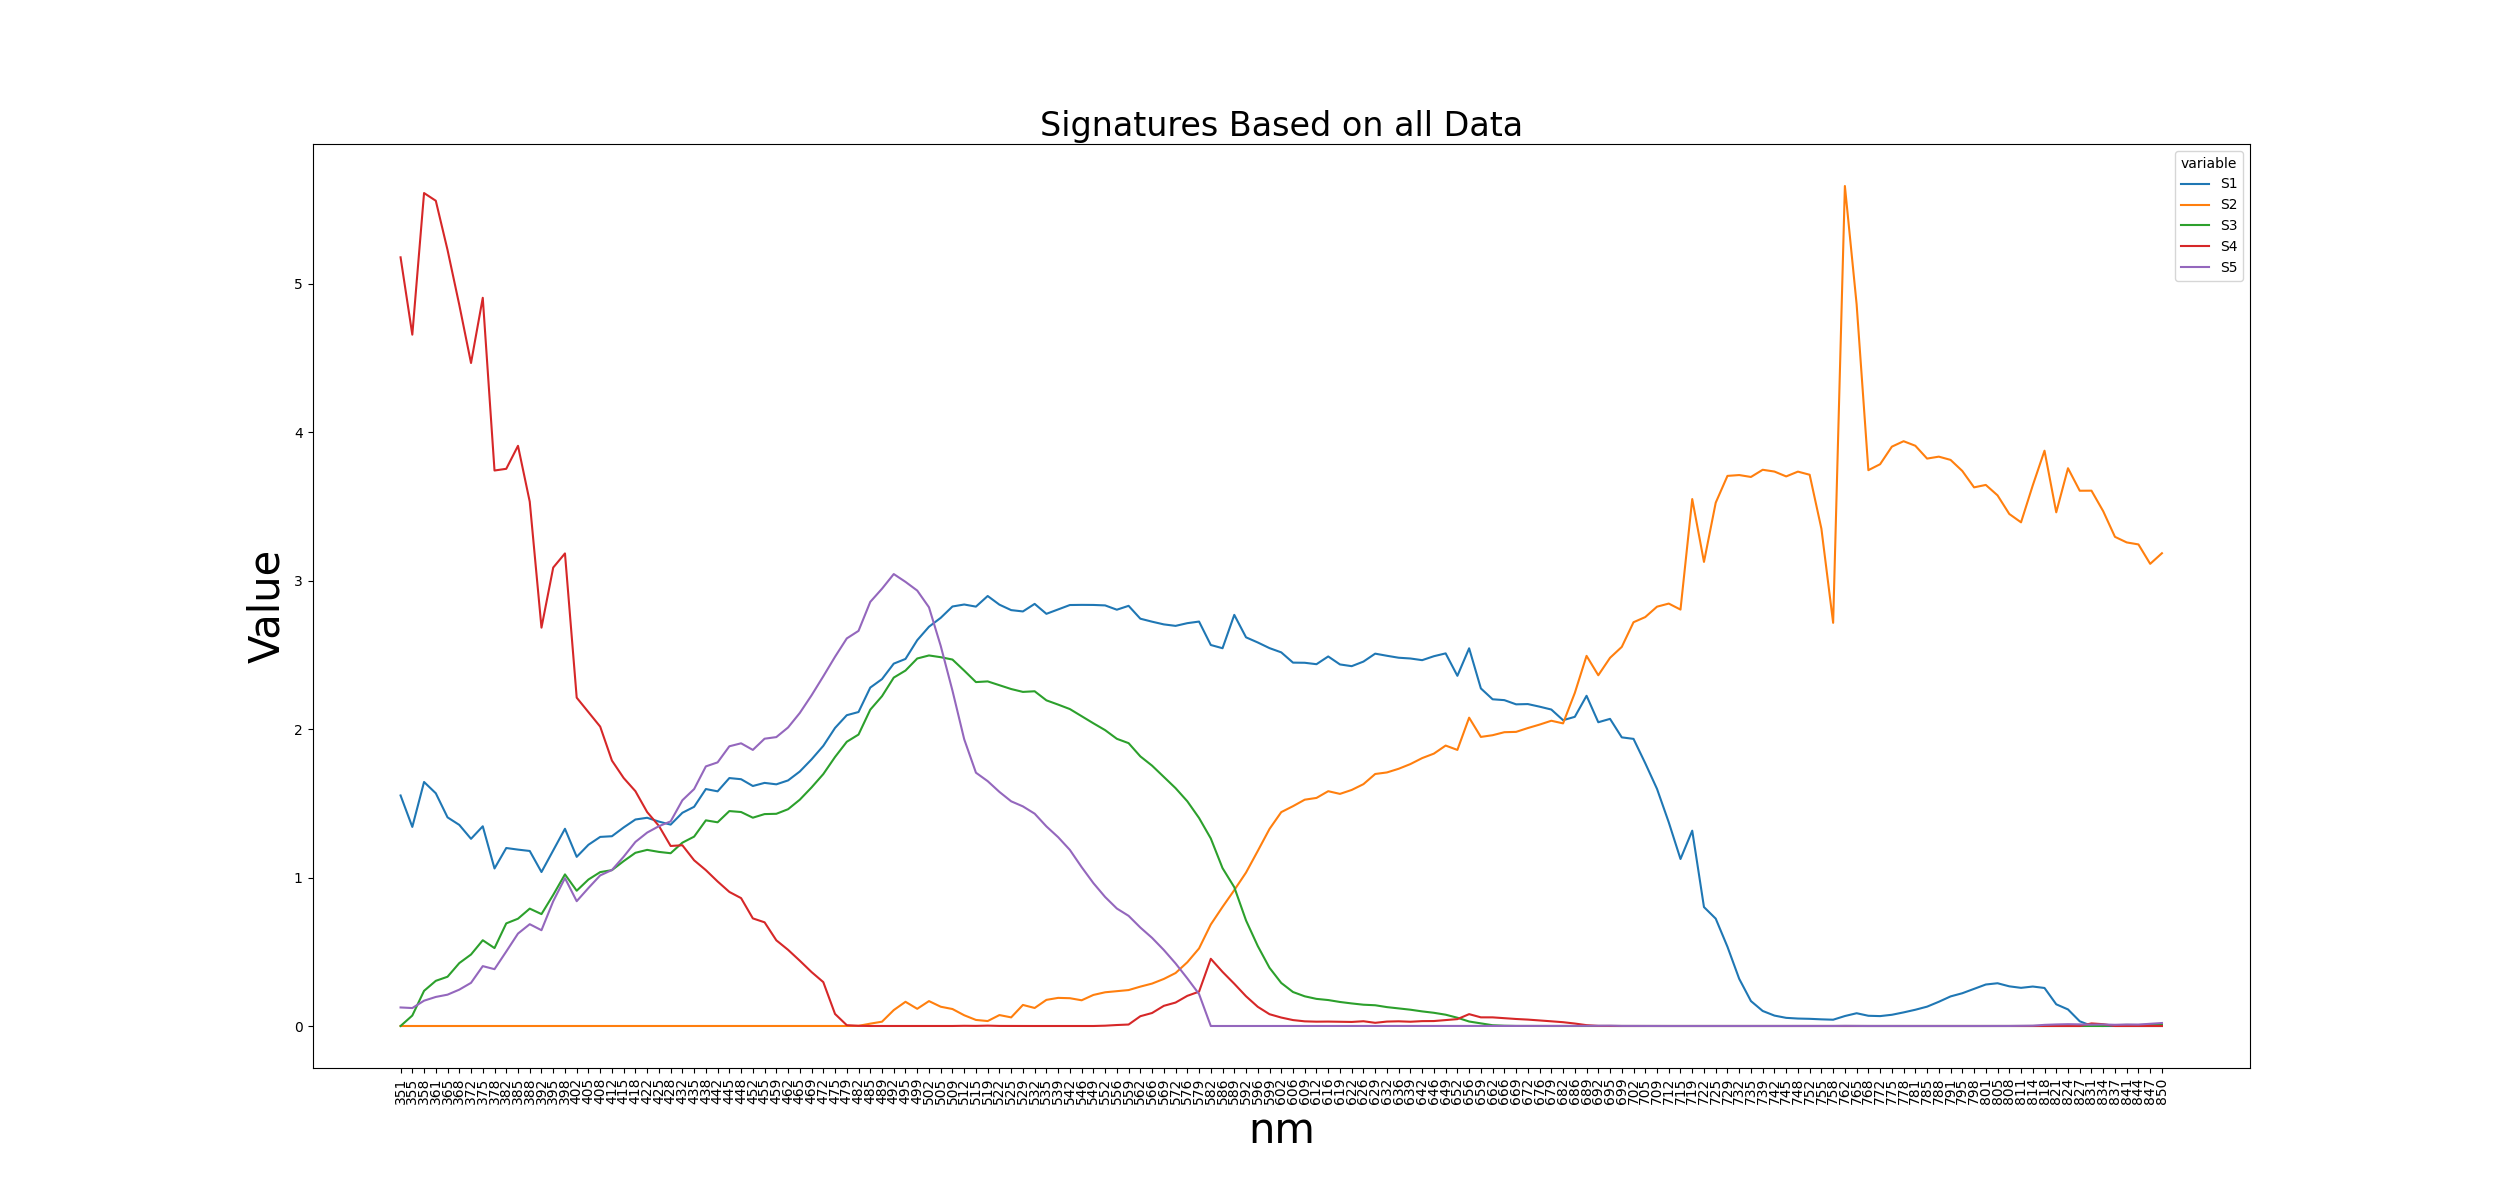
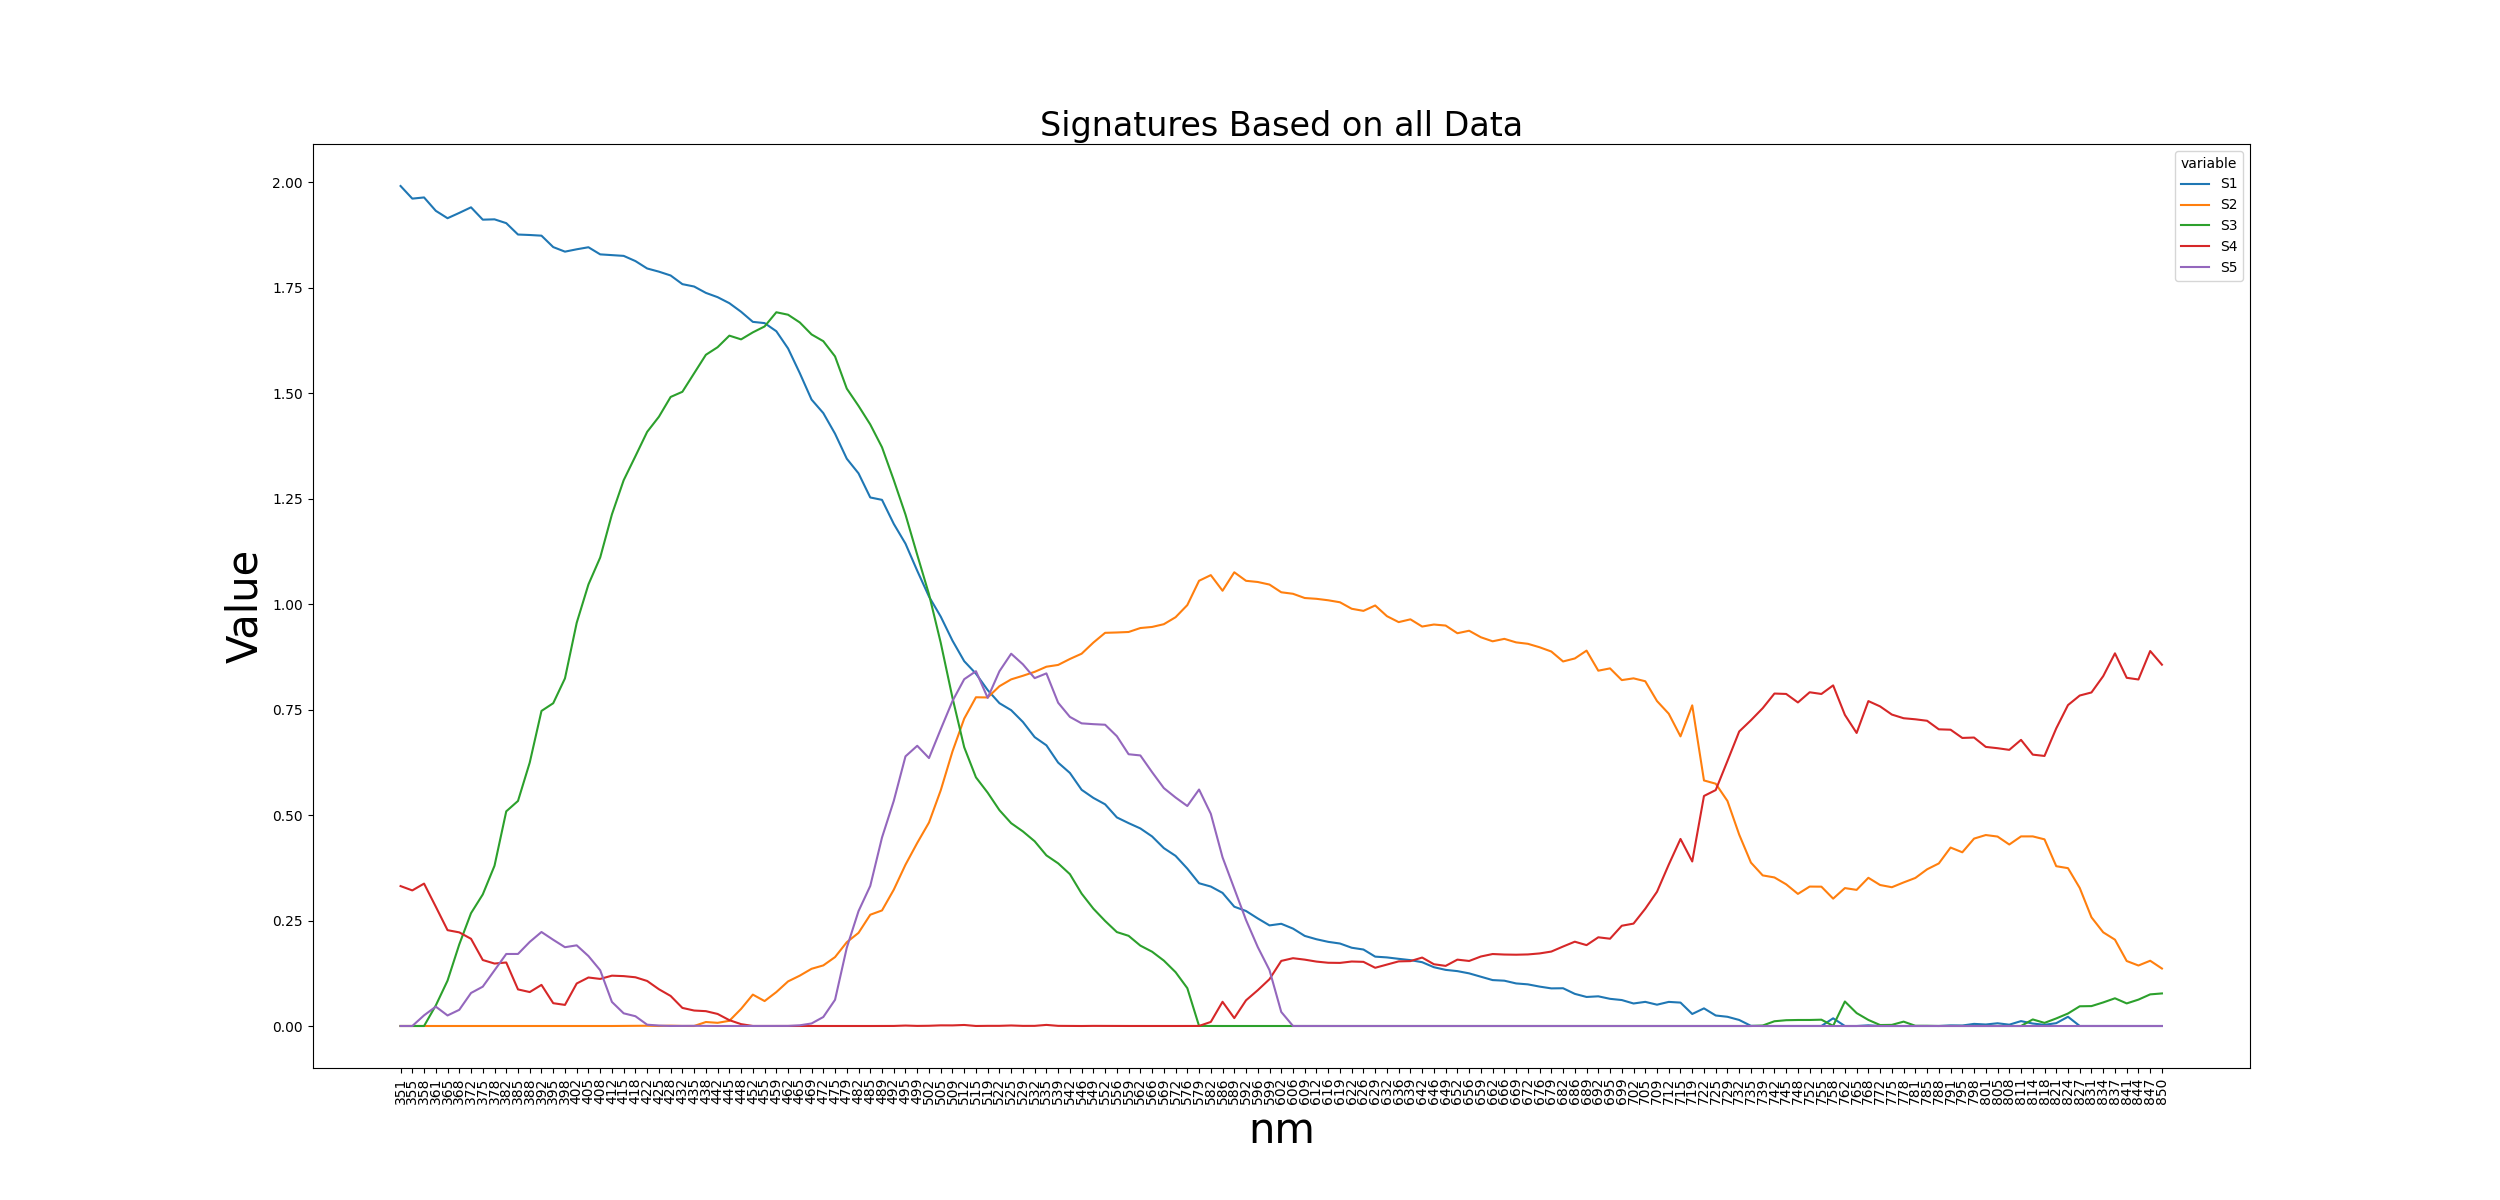
contrastive is really hard to explain. Let's try with AE and feature activation maps

diff --git a/1_merge_and_normalize_uw_dw.py b/1_merge_and_normalize_uw_dw.py
@@ -33,6 +33,7 @@ def simplify_column_names(df):
 '''
     Reading and merging DW and UW data for each experiment
 '''
+all_data_normalized_uw_by_dw = []
 all_data_for_modeling = []
 for folder in tqdm.tqdm(glob.glob("{}/*".format(INPUT_FOLDER))): # for every measurment folder
     if os.path.isfile("{}/spectra_merged.csv".format(folder)):
@@ -58,17 +59,21 @@ for folder in tqdm.tqdm(glob.glob("{}/*".format(INPUT_FOLDER))): # for every mea
         common_columns = dw.columns.intersection(apogee.columns)
         dw = dw[common_columns]
         uw = uw[common_columns]
+        # normalize UW by DW
+        merged_dw_uw = pd.merge_asof(dw, uw, on='TIMETAG2',
+                                  tolerance=pd.Timedelta('3s'), suffixes=("_DW", "_UW"),
+                                  direction='nearest', allow_exact_matches=True).dropna()
         # DW
-        merged = pd.merge_asof(dw, apogee.sort_values('TIMETAG2'), on='TIMETAG2',
+        merged_dw = pd.merge_asof(dw, apogee.sort_values('TIMETAG2'), on='TIMETAG2',
                                tolerance=pd.Timedelta('3s'), suffixes=("_DW", "_apogee"),
                                direction='nearest', allow_exact_matches=True).dropna()
 
-        dw_columns = [col for col in merged.columns if col.endswith('_DW')]
-        apogee_columns = [col for col in merged.columns if col.endswith('_apogee')]
+        dw_columns = [col for col in merged_dw.columns if col.endswith('_DW')]
+        apogee_columns = [col for col in merged_dw.columns if col.endswith('_apogee')]
 
-        normalized_data_dw = pd.DataFrame(np.array(merged[dw_columns].values, dtype='float32')/
-                                       np.array(merged[apogee_columns].values, dtype="float32"))
-        normalized_data_dw['TIMETAG2'] = merged['TIMETAG2'].values
+        normalized_data_dw = pd.DataFrame(np.array(merged_dw[dw_columns].values, dtype='float32')/
+                                       np.array(merged_dw[apogee_columns].values, dtype="float32"))
+        normalized_data_dw['TIMETAG2'] = merged_dw['TIMETAG2'].values
         normalized_data_dw.columns = common_columns
         normalized_data_dw = normalized_data_dw.dropna()
         # UW
@@ -84,6 +89,14 @@ for folder in tqdm.tqdm(glob.glob("{}/*".format(INPUT_FOLDER))): # for every mea
         normalized_data_uw['TIMETAG2'] = merged['TIMETAG2']
         normalized_data_uw.columns = common_columns
         normalized_data_uw = normalized_data_uw.dropna()
+
+        normalized_data_uw_by_dw = pd.DataFrame(np.array(merged_dw_uw[uw_columns].values, dtype='float32')/
+                                                (np.array(merged_dw_uw[dw_columns].values, dtype="float32"))+1e-6)
+        normalized_data_uw_by_dw['TIMETAG2'] = merged_dw_uw['TIMETAG2']
+        normalized_data_uw_by_dw.columns = common_columns
+        normalized_data_uw_by_dw = normalized_data_uw_by_dw.replace([np.inf, -np.inf], np.nan)
+        normalized_data_uw_by_dw = normalized_data_uw_by_dw.dropna()
+
         for depthfile in glob.glob("{}/*.asc".format(folder)):
             depth = pd.read_csv(depthfile, skiprows=11)
             depth.columns = ['Temp', 'Meter', 'Date', 'TIMETAG2']
@@ -92,18 +105,28 @@ for folder in tqdm.tqdm(glob.glob("{}/*".format(INPUT_FOLDER))): # for every mea
         normalized_data_uw = pd.merge_asof(normalized_data_uw, depth.sort_values('TIMETAG2'), on='TIMETAG2',
                                tolerance=pd.Timedelta('3s'),
                                direction='nearest', allow_exact_matches=True)
+        normalized_data_uw_by_dw = pd.merge_asof(normalized_data_uw_by_dw, depth.sort_values('TIMETAG2'), on='TIMETAG2',
+                                           tolerance=pd.Timedelta('3s'),
+                                           direction='nearest', allow_exact_matches=True)
         normalized_data_dw = pd.merge_asof(normalized_data_dw, depth.sort_values('TIMETAG2'), on='TIMETAG2',
                                            tolerance=pd.Timedelta('3s'),
                                            direction='nearest', allow_exact_matches=True)
+
+
         if np.shape(normalized_data_uw)[0] > 5 and np.shape(normalized_data_dw)[0] > 5:
             normalized_data_dw = normalized_data_dw.iloc[:normalized_data_dw['Meter'].idxmax() + 1]
             normalized_data_uw = normalized_data_uw.iloc[:normalized_data_uw['Meter'].idxmax() + 1]
+            normalized_data_uw_by_dw = normalized_data_uw_by_dw.iloc[:normalized_data_uw_by_dw['Meter'].idxmax() + 1]
             normalized_data_dw['location'] = location
             normalized_data_dw['date'] = date
             normalized_data_dw['sensor'] = 'DW'
             normalized_data_uw['location'] = location
             normalized_data_uw['date'] = date
             normalized_data_uw['sensor'] = 'UW'
+            normalized_data_uw_by_dw['location'] = location
+            normalized_data_uw_by_dw['date'] = date
+            normalized_data_uw_by_dw['sensor'] = 'UW'
+            all_data_normalized_uw_by_dw.append(pd.concat([normalized_data_uw_by_dw, normalized_data_dw]))
 
             total_data = pd.concat([normalized_data_uw, normalized_data_dw])
             total_data.to_csv("{}/everything_merged_and_normalized.csv".format(folder))
@@ -116,3 +139,9 @@ all_data_for_modeling_df['Date'] = pd.to_datetime(all_data_for_modeling_df['Date
 all_data_for_modeling_df['Month'] = all_data_for_modeling_df['Date'].dt.month
 all_data_for_modeling_df = all_data_for_modeling_df[all_data_for_modeling_df['Meter'] > 1]
 all_data_for_modeling_df.to_csv("ALL_DATA.csv")
+
+all_data_normalized_uw_by_dw = pd.concat(all_data_normalized_uw_by_dw)
+all_data_normalized_uw_by_dw['Date'] = pd.to_datetime(all_data_normalized_uw_by_dw['Date'])
+all_data_normalized_uw_by_dw['Month'] = all_data_normalized_uw_by_dw['Date'].dt.month
+all_data_normalized_uw_by_dw = all_data_normalized_uw_by_dw[all_data_normalized_uw_by_dw['Meter'] > 1]
+all_data_normalized_uw_by_dw.to_csv("ALL_DATA_UW_norm_by_DW.csv")

diff --git a/contrastive_not_used/5_extract_contrastive_sigs.py b/contrastive_not_used/5_extract_contrastive_sigs.py
@@ -1,0 +1,80 @@
+
+import pickle
+import pandas as pd
+import numpy as np
+import torch
+import umap
+from captum.attr import IntegratedGradients
+from matplotlib import pyplot as plt
+import seaborn as sb
+import wandb
+from sklearn.metrics.pairwise import cosine_similarity
+from tqdm import tqdm
+
+from losses import SupConLoss
+from sklearn.model_selection import train_test_split
+from torch import optim
+from LSTMModel import LSTMModel
+
+
+if torch.cuda.is_available():
+    print("CUDA is available! PyTorch is using GPU acceleration.")
+    device = "cuda:1"
+else:
+    print("CUDA is not available. PyTorch is using CPU.")
+    device = "cpu"
+
+
+with open("derived_data/X.pck", 'rb') as f:
+    X = pickle.load(f)
+with open("derived_data/Y.pck", 'rb') as f:
+    Y = pickle.load(f)
+data = pd.read_csv("ALL_DATA.csv")
+curve_columns = data.columns[1:152]
+
+input_size = 151  # Number of features (channels)
+hidden_size = 32  # Number of LSTM units
+num_layers = 2  # Number of LSTM layers
+batch_size = 1
+learning_rate = 0.0001
+num_epochs = 500
+temp = 0.5
+base_temperature = 0.5
+output_size = 7
+# Create the LSTM autoencoder model
+model = LSTMModel(input_size, hidden_size, num_layers, output_size, device=device, contrastive=True).to(device)
+# Load the trained model
+model.load_state_dict(torch.load('lstm_contrsative_model_7.pth'))
+model.eval()
+
+res_df = []
+month_df = []
+for label in tqdm(np.unique(Y), total=5):
+    print(label)
+    X_train_tensor = torch.tensor(X, dtype=torch.float32).to(device)
+    y_train_tensor = torch.tensor(Y, dtype=torch.long).to(device)
+    train_data = torch.utils.data.TensorDataset(X_train_tensor, y_train_tensor)
+    train_loader = torch.utils.data.DataLoader(train_data, batch_size=batch_size, shuffle=True)
+
+    total_attributions = []
+    indices = np.where(Y == label)[0]
+    Y_filtered = Y[indices]
+    X_filtered = X[indices, :, :]
+
+    X_filtered = torch.tensor(X_filtered, dtype=torch.float32).to(device)
+    Y_filtered = torch.tensor(Y_filtered, dtype=torch.long).to(device)
+    train_loader = torch.utils.data.DataLoader(torch.utils.data.TensorDataset(X_filtered, Y_filtered),
+                                               batch_size=batch_size,
+                                               shuffle=True)
+
+
+    for i, (inputs, labels) in tqdm(enumerate(train_loader), total=len(train_loader),position=0, leave=False):
+        outputs = model(inputs)
+        outputs = outputs.squeeze(dim=1)
+        res_df.append(pd.DataFrame(outputs.detach().cpu().numpy()))
+        month_df.extend(labels.detach().cpu().numpy())
+
+
+res_df = pd.concat(res_df)
+res_df['Month'] = month_df
+res_df.to_csv("contrastive_signatures.csv")

diff --git a/2_apply_NMF.py b/2_apply_NMF.py
@@ -6,33 +6,47 @@ import seaborn as sb
 import matplotlib.pyplot as plt
 import glob
 import tqdm
+from scipy.stats import ttest_ind
+from sklearn.preprocessing import MinMaxScaler
 from sklearn.utils import shuffle
 from sklearn.decomposition import NMF
 
 OPTIMAL_K_RUN = False
-data = pd.read_csv("derived_data/ALL_DATA.csv")
+data = pd.read_csv("ALL_DATA.csv")
 curve_columns = data.columns[1:152]
-data[curve_columns] = data[curve_columns].applymap(lambda x: max(0, x))
+scaler = MinMaxScaler()
+data[curve_columns] = scaler.fit_transform(data[curve_columns])
 
 if OPTIMAL_K_RUN:
     results = []
     for k in tqdm.tqdm(range(2, 11)):
-        for i in range(50):
-            nmf = NMF(n_components=k, max_iter=50, random_state=i)
-            nmf_data = shuffle(data[curve_columns])
-            nmf.fit(nmf_data)
-            results.append(pd.DataFrame([{'K':k, 'iter': i, 'error': nmf.reconstruction_err_}]))
-            # Print the reconstruction error
+        for init in ['random', 'nndsvd', 'nndsvda', 'nndsvdar']:
+            for i in range(50):
+                nmf = NMF(n_components=k, max_iter=50, random_state=i, init=init)
+                nmf_data = shuffle(data[curve_columns])
+                nmf.fit(nmf_data)
+                results.append(pd.DataFrame([{'K':k, 'iter': i, 'error': nmf.reconstruction_err_, 'init':init}]))
+                # Print the reconstruction error
             #print(f"K={k}: Reconstruction Error = {nmf.reconstruction_err_}")
 
     results_df = pd.concat(results, ignore_index=True)
-    sb.boxplot(data=results_df, x='K', y = 'error')
+    results_df = results_df[results_df['init'] == 'random']
+    sb.boxplot(data=results_df, x='K', y='error')
+    unique_K_values = sorted(results_df['K'].unique())
+    for i in range(len(unique_K_values) - 1):
+        group1 = results_df[results_df['K'] == unique_K_values[i]]['error']
+        group2 = results_df[results_df['K'] == unique_K_values[i + 1]]['error']
+        t_stat, p_value = ttest_ind(group1, group2)
+        print(f"T-test between K={unique_K_values[i]} and K={unique_K_values[i + 1]}:")
+        print(f"  t-statistic: {t_stat:.2f}, p-value: {p_value:.4f}")
+        plt.text(i + 0.5, max(group1.max(), group2.max()), p_value, ha='center', va='bottom', color='red')
+
     plt.show()
 
 K = 5
 nmf = NMF(n_components=K,  init='nndsvdar',
                                 random_state=7, solver='mu',
-                                beta_loss='kullback-leibler', max_iter=1000)
+                                beta_loss='frobenius', max_iter=1000)
 nmf_data = data[curve_columns]
 W = nmf.fit_transform(nmf_data)
 H = nmf.components_

diff --git a/contrastive_not_used/6_explain_contrastive_sigs.py b/contrastive_not_used/6_explain_contrastive_sigs.py
@@ -1,0 +1,39 @@
+
+import pandas as pd
+import numpy as np
+from matplotlib import pyplot as plt
+import seaborn as sb
+from scipy.stats import pearsonr
+
+data = pd.read_csv("ALL_DATA.csv")
+curve_columns = data.columns[1:152]
+sigs = pd.read_csv("contrastive_signatures.csv")
+sigs.columns = ['index', 'S1', 'S2', 'S3', 'S4', 'S5','S6', 'S7', 'Month']
+sig_columns = sigs.columns[1:8]
+correlation_results = {}
+cols = []
+for signature_column in sigs[sig_columns].columns:
+    correlations = []
+    for curve_column in data[curve_columns].columns:
+        correlation, p = pearsonr(data[curve_column][:len(sigs)], sigs[signature_column])
+        correlations.append(correlation)
+
+    correlation_results[signature_column] = correlations
+
+# Convert correlation results to a DataFrame
+correlation_df = pd.DataFrame(correlation_results, index=curve_columns)
+correlation_df.to_csv("corrs.csv")
+
+plt.figure(figsize=(10, 6))
+sb.lineplot(y=correlation_df['S1'],x=correlation_df.index, label="S1")
+sb.lineplot(y=correlation_df['S2'],x=correlation_df.index, label="S2")
+sb.lineplot(y=correlation_df['S3'],x=correlation_df.index, label="S3")
+sb.lineplot(y=correlation_df['S4'],x=correlation_df.index, label="S4")
+sb.lineplot(y=correlation_df['S5'],x=correlation_df.index, label="S5")
+sb.lineplot(y=correlation_df['S6'],x=correlation_df.index, label="S6")
+sb.lineplot(y=correlation_df['S7'],x=correlation_df.index, label="S7")
+plt.title('Heatmap of Nanometers vs Signatures')
+plt.xlabel('Signatures')
+plt.xticks(rotation=90, size =7)
+plt.ylabel('Nanometers')
+plt.show()
